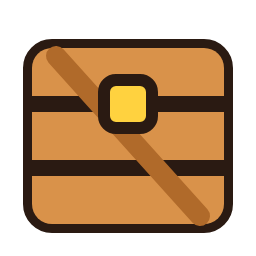
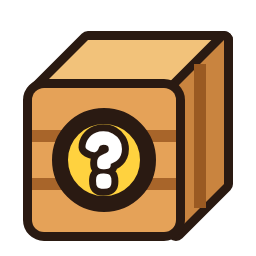
UI assets: clearer crate symbol
Derek said the crate picture could use work. It is now a 3/4 wooden
crate with a gold question mark badge, so it reads as a mystery box at
spin wheel size.

Claude-Session: https://claude.ai/code/session_01KRgcspcYdaFRdMNaYSi6mZ

diff --git a/assets/cat-cafe/ui/icons-clean-2026-11-03/source/icons.js b/assets/cat-cafe/ui/icons-clean-2026-11-03/source/icons.js
@@ -48,10 +48,13 @@ window.ICONS = {
   bag: `<path ${S} fill="#3ccf5a" d="M22 16 Q16 8 22 6 H42 Q48 8 42 16 Q58 28 56 44 Q54 58 32 58 Q10 58 8 44 Q6 28 22 16 Z"/>
     <path d="M22 16 H42" stroke="${O}" stroke-width="4.5" stroke-linecap="round"/>
     <text x="32" y="49" text-anchor="middle" font-family="Fredoka" font-weight="700" font-size="28" fill="#fff" stroke="${O}" stroke-width="4" paint-order="stroke">$</text>`,
-  crate: `<rect ${S} x="8" y="12" width="48" height="44" rx="5" fill="#d9924a"/>
-    <path d="M8 26 H56 M8 42 H56" stroke="${O}" stroke-width="4"/>
-    <path d="M14 14 L50 54" stroke="#b06a2a" stroke-width="5" stroke-linecap="round"/>
-    <rect x="26" y="20" width="12" height="12" rx="3" fill="#ffd23f" stroke="${O}" stroke-width="3"/>`,
+  crate: `<path ${S} fill="#f2c27a" d="M10 22 L22 10 H56 L44 22 Z"/>
+    <path ${S} fill="#c9843f" d="M44 22 L56 10 V46 L44 58 Z"/>
+    <rect ${S} x="8" y="22" width="36" height="36" rx="3" fill="#e5a258"/>
+    <path d="M8 34 H44 M8 46 H44" stroke="#a8652a" stroke-width="3"/>
+    <path d="M50 16 V52" stroke="#9a5a22" stroke-width="3"/>
+    <circle cx="26" cy="40" r="11" fill="#ffd23f" stroke="${O}" stroke-width="4"/>
+    <text x="26" y="47" text-anchor="middle" font-family="Fredoka" font-weight="700" font-size="20" fill="#fff" stroke="${O}" stroke-width="3.5" paint-order="stroke">?</text>`,
   caviar: `<ellipse ${S} cx="32" cy="44" rx="25" ry="12" fill="#5fb7ff"/>
     <ellipse ${S} cx="32" cy="34" rx="25" ry="11" fill="#e9f5ff"/>
     ${[[20, 32], [27, 29], [34, 31], [41, 28], [24, 37], [31, 36], [38, 37], [45, 34]].map(([x, y]) => `<circle cx="${x}" cy="${y}" r="3.6" fill="#ff7a2f" stroke="${O}" stroke-width="1.6"/>`).join('')}`,
